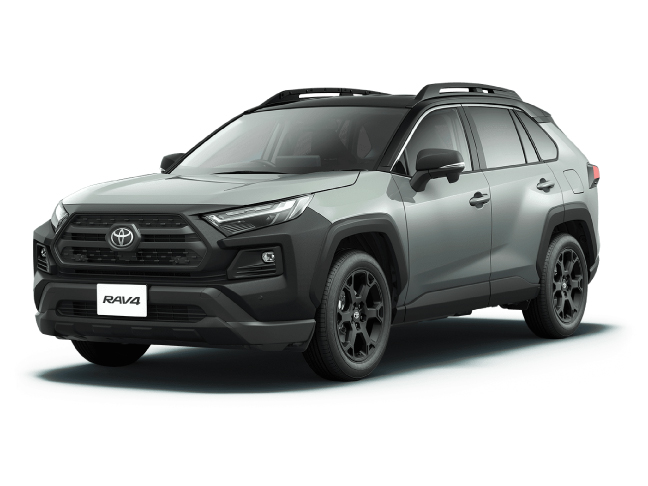
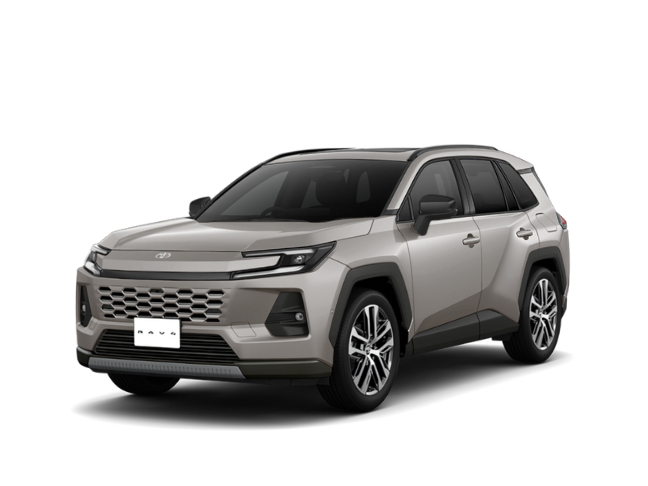
Update RAV4 options, colors and price

diff --git a/app/suv/rav4/ClientPage.tsx b/app/suv/rav4/ClientPage.tsx
@@ -19,23 +19,21 @@ interface VehicleOption {
 }
 
 export default function Page() {
-    const basePrice = 49000; // 基本月額料金
+    const basePrice = 65000; // 基本月額料金
 
     const colors: ColorOption[] = useMemo(() => [
-        { name: 'スーパーホワイトⅡ', price: 0, colorCode: '#FFFFFF' },
         { name: 'アティチュードブラックマイカ', price: 0, colorCode: '#000000' },
-        { name: 'グレーメタリック', price: 900, colorCode: '#6B7280' },
-        { name: 'アティチュードブラックマイカ×アーバンカーキ', price: 3200, colorCode: '#4A5D23' },
+        { name: 'プラチナホワイトパールマイカ', price: 950, colorCode: '#F5F5F5' },
+        { name: 'アバンギャルドブロンズメタリック', price: 950, colorCode: '#8B7355' },
     ], []);
 
     const options: VehicleOption[] = useMemo(() => [
-        { name: 'フロアマット（デラックスタイプ）', price: 0, isDefault: true, category: 'インテリア' },
-        { name: 'ハンズフリーパワーバックドア（挟み込み防止機能・停止位置メモリー機能付）', price: 0, isDefault: true, category: 'エクステリア' },
-        { name: 'パノラミックビューモニター（床下透過表示機能付）', price: 2500, isDefault: false, category: 'ナビ・電装' },
-        { name: 'スペアタイヤ（応急用）　T165/80D17', price: 400, isDefault: false, category: 'エクステリア' },
-        { name: 'デジタルインナーミラー（前後方録画機能付）', price: 0, isDefault: true, category: 'ナビ・電装' },
-        { name: 'アクセサリーコンセント（ラゲージ）　AC100V・100W', price: 300, isDefault: false, category: 'ナビ・電装' },
-        { name: 'スタッドレスタイヤ', price: 5200, category: 'タイヤ・ホイール' },
+        { name: 'フロアマット（デラックスタイプ）', price: 0, isDefault: true, category: '標準装備' },
+        { name: 'Toyota Safety Sense　緊急時操舵支援（アクティブ操舵機能付）＋フロントクロストラフィックアラート［FCTA］＋レーンチェンジアシスト［LCA］', price: 0, isDefault: true, category: '標準装備' },
+        { name: 'パノラマムーンルーフ（チルト＆スライド電動［フロント側］/挟み込み防止機能付）', price: 0, isDefault: true, category: '標準装備' },
+        { name: 'スペアタイヤ（応急用）　165/90D18ST', price: 0, isDefault: true, category: '標準装備' },
+        { name: '235/50R20タイヤ＆20×7 1/2Jアルミホイール（切削光輝＋ブラック塗装）＋センターオーナメント＋ホイールナット', price: 3500, category: 'タイヤ・ホイール' },
+        { name: 'スタッドレスタイヤ', price: 7000, category: 'タイヤ・ホイール' },
     ], []);
 
     const [selectedColor, setSelectedColor] = useState<string>(colors[0].name);
@@ -110,13 +108,13 @@ export default function Page() {
                         </div>
                         <div className="flex flex-wrap gap-3">
                             <span className="bg-white/10 backdrop-blur px-4 py-2 rounded-xl text-sm font-medium">
-                                グレード: Adventure OFFROAD package Ⅱ
+                                グレード: ハイブリッド Z
                             </span>
                             <span className="bg-white/10 backdrop-blur px-4 py-2 rounded-xl text-sm font-medium">
-                                駆動方式: 4WD
+                                駆動方式: E-Four
                             </span>
                             <span className="bg-white/10 backdrop-blur px-4 py-2 rounded-xl text-sm font-medium">
-                                排気量: 2,000cc
+                                排気量: 2,500cc
                             </span>
                         </div>
                     </div>

diff --git a/app/noreta/ClientPage.tsx b/app/noreta/ClientPage.tsx
@@ -96,7 +96,7 @@ export default function Page() {
                 image: '/cars/harrier.jpg',
                 route: '/suv/harrier',
             },
-            { name: 'RAV4', price: '49,000円～', image: '/cars/rav4.jpg', route: '/suv/rav4' },
+            { name: 'RAV4', price: '65,000円～', image: '/cars/rav4.jpg', route: '/suv/rav4' },
             {
                 name: 'ランクル 250',
                 price: '55,000円～',
